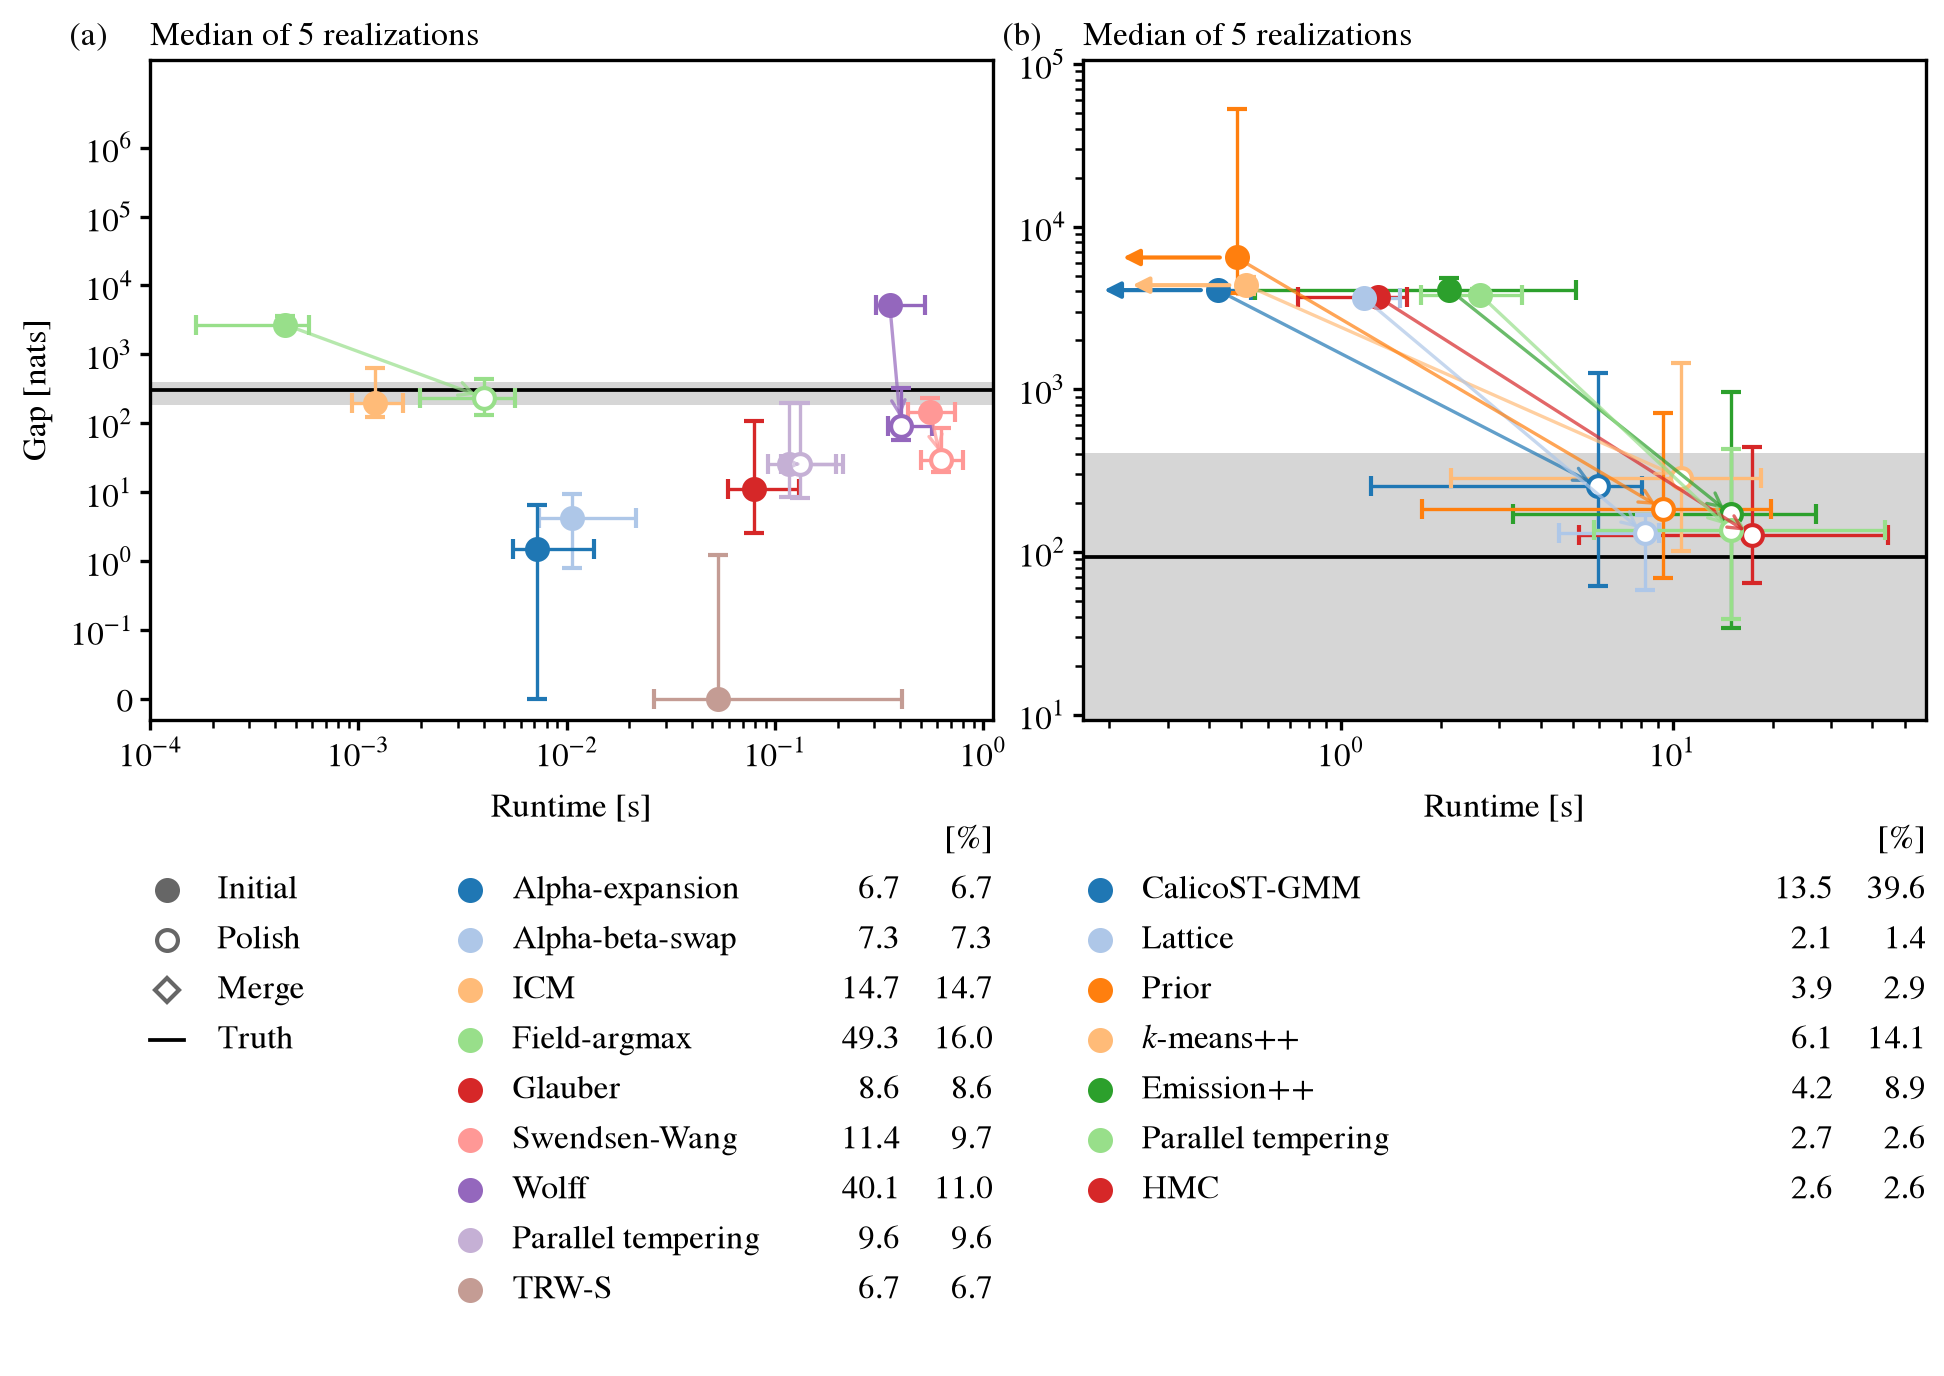
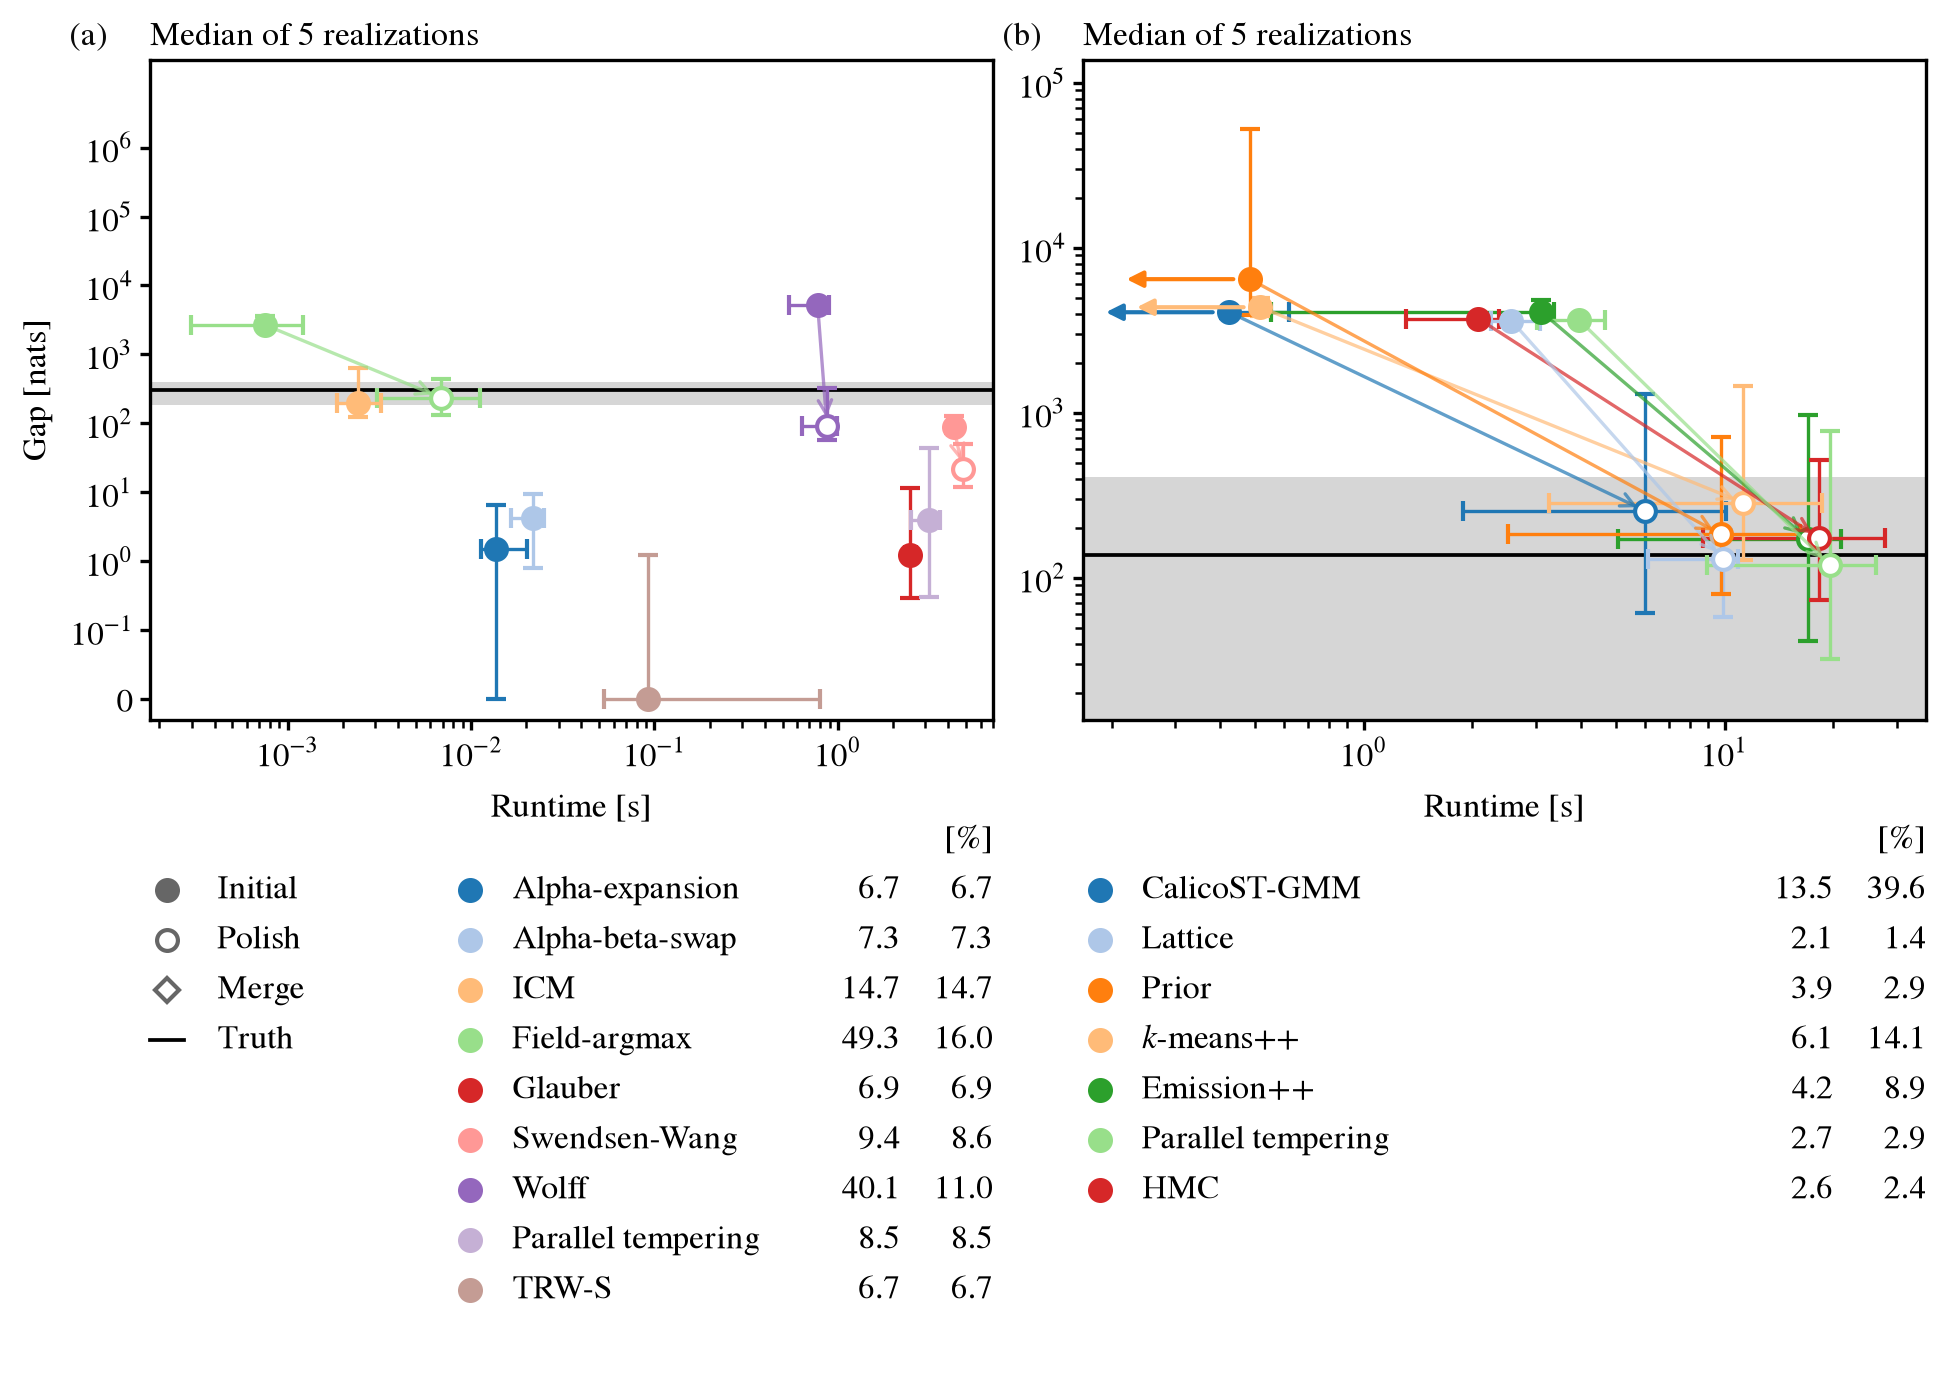
#723: solver_combined from the tuned streams; study docs report untuned -> tuned
Both streams on a quiet host at the #723 settings, 5 problems x 5 starts on
dev_tree_1s_hard. Potts missed share after both polishes: anneal 8.6 -> 6.9%,
heat-bath SW 9.7 -> 8.6%, tempering 9.6 -> 8.5%; Wolff unchanged (its tune
ran 68 min unfinished; earlier settings kept). Copy starts after Baum-Welch:
hmc-hmm 2.6 -> 2.4% missed but gap 127 -> 175 nats; tempering-hmm 2.6 ->
2.9% missed, gap 136 -> 120. solver_combined.md names the tuned records.

Claude-Session: https://claude.ai/code/session_01JXaY8ogGJw3Lo2bAgEaAaH

diff --git a/python/port/studies/paper_figures.py b/python/port/studies/paper_figures.py
@@ -660,9 +660,9 @@ def solver_note(
         f"| (b) copy-state starts | `port.studies.copy_state_stream` | `{digests[1]}` | {len(copies.get('done', []))} "
         f"| {copies.get('seeds')} | {'tuned' if copies.get('tuning') else 'settings file'} |",
         "",
-        "Where a sampler reads a settings file (`potts_sampler_settings.json`, `copy_sampler_settings.json`),",
-        "it was tuned before the harness, on problems the run does not solve: these panels are",
-        "untuned for the run's problems until #723 retunes them on a quiet host.",
+        "Each sampler reads its settings file (`potts_sampler_settings.json`, `copy_sampler_settings.json`),",
+        "tuned by #723 on the run's own problems, realizations 0-2 held out from these panels, on a quiet",
+        "host; Wolff keeps the settings tuned before the harness, since its tune ran 68 min unfinished.",
         "",
     ]
     return "\n".join(lines)

diff --git a/docs/study-field-strength.md b/docs/study-field-strength.md
@@ -255,3 +255,18 @@ exponential generation (`0330bc21`, `ed2fcda1`), which was not rerun. The known-
   - Genes are reindexed to the baseline.
   - The genomic panel shows the tumour program as tumour-clone RDR near 0.3
     against port's λ.
+
+## Tuned on the run's field (#723)
+
+**TL;DR:** the samplers were retuned on the run's own clone-assignment field (`dev_tree_1s_hard` r0–r2 held out, sal `ef2fd06`, quiet host). On the same problems, the tuned settings lower the median gap to the TRW-S bound from the default settings' for anneal (1.26 → 0.34 nats), heat-bath SW (120.5 → 66.1) and tempering (5.50 → 3.45). On `solver_combined`'s 5 realizations × 5 starts, they lower the share of spots missed after both polishes: anneal 8.6 → 6.9%, heat-bath SW 9.7 → 8.6%, tempering 9.6 → 8.5%.
+
+- **Settings:**
+
+  | Sampler | Tuned setting |
+  | --- | --- |
+  | anneal | t_start 8, 4,000 sweeps, warm 0.1 |
+  | heat-bath SW | t_start 1, 4,000 sweeps, warm 0.25 |
+  | tempering | t_start 0.5, 4,000 sweeps |
+
+- **Wolff (heat-bath)** keeps its earlier settings. Its tune ran 68 min on three workers without finishing; on this field a Wolff step costs 38–58 ms (#751). Its missed share is unchanged: 40.1% raw, 11.0% after both polishes.
+- **Rank:** the same before and after tuning. In missed share after both polishes: anneal (8.6 → 6.9%), tempering (9.6 → 8.5%), heat-bath SW (9.7 → 8.6%).

diff --git a/docs/plots/paper/solver_combined.md b/docs/plots/paper/solver_combined.md
@@ -1,13 +1,13 @@
 # solver_combined.png
 
-Drawn at code `4975a35+` from two records on `sim/manifests/dev_tree_1s_hard.toml`, each problem built by
+Drawn at code `4c881ac+` from two records on `sim/manifests/dev_tree_1s_hard.toml`, each problem built by
 `run_cnaster_port --sal` at the planted clones (`port.studies.stage`, #730, #742):
 
 | Panel | Record | Data hash | Problems | Starts | Samplers |
 | --- | --- | --- | --- | --- | --- |
-| (a) spatial solvers | `port.studies.potts_stream` | `40f0c8a2` | 5 | 5 | settings file |
-| (b) copy-state starts | `port.studies.copy_state_stream` | `62375f46` | 5 | 5 | settings file |
+| (a) spatial solvers | `port.studies.potts_stream` | `bc6c88a8` | 5 | 5 | settings file |
+| (b) copy-state starts | `port.studies.copy_state_stream` | `341a2115` | 5 | 5 | settings file |
 
-Where a sampler reads a settings file (`potts_sampler_settings.json`, `copy_sampler_settings.json`),
-it was tuned before the harness, on problems the run does not solve: these panels are
-untuned for the run's problems until #723 retunes them on a quiet host.
+Each sampler reads its settings file (`potts_sampler_settings.json`, `copy_sampler_settings.json`),
+tuned by #723 on the run's own problems, realizations 0-2 held out from these panels, on a quiet
+host; Wolff keeps the settings tuned before the harness, since its tune ran 68 min unfinished.

diff --git a/docs/study-copy-states.md b/docs/study-copy-states.md
@@ -184,3 +184,15 @@ and ends at 59.3% on one screened realization.
 there would need a clone-indexed rate offset in its NB emission and a registry of HMM starts. The samplers
 on the HMM's NLL would need `sal` to sample the HMM objective rather than its Gaussian surrogate (#563). sal b61dfba's
 `hmc`, `anneal` and `tempering` seedings now sample the mixture's own likelihood (sal #1136), not the HMM's.
+
+## Tuned at the run's Baum-Welch (#723)
+
+**TL;DR:** `tempering-hmm` and `hmc-hmm` were retuned at the run's Baum-Welch at the planted clones (#730), on `dev_tree_1s_hard` r0–r2 held out. Their median gap at the start's states falls from the default settings' 722.7 to 100.6 nats (tempering) and 170.3 to 131.6 (HMC). After Baum-Welch the two move in opposite directions on `solver_combined`'s 5 realizations × 5 seeds:
+
+| start | rows missed after BW, untuned → tuned | median gap after BW (nats), untuned → tuned |
+| --- | --- | --- |
+| `hmc-hmm` | 2.6 → 2.4% | 127 → 175 |
+| `tempering-hmm` | 2.6 → 2.9% | 136 → 120 |
+
+- **Settings:** `hmc-hmm` temperature 1 → 100; `tempering-hmm` step 0.001 → 0.003, top temperature 10,000 → 100.
+- **Why they diverge:** the tune ranks settings by the gap at the start's states, before Baum-Welch. A better start does not predict a better fit (this doc's *Why good starts end badly*).
